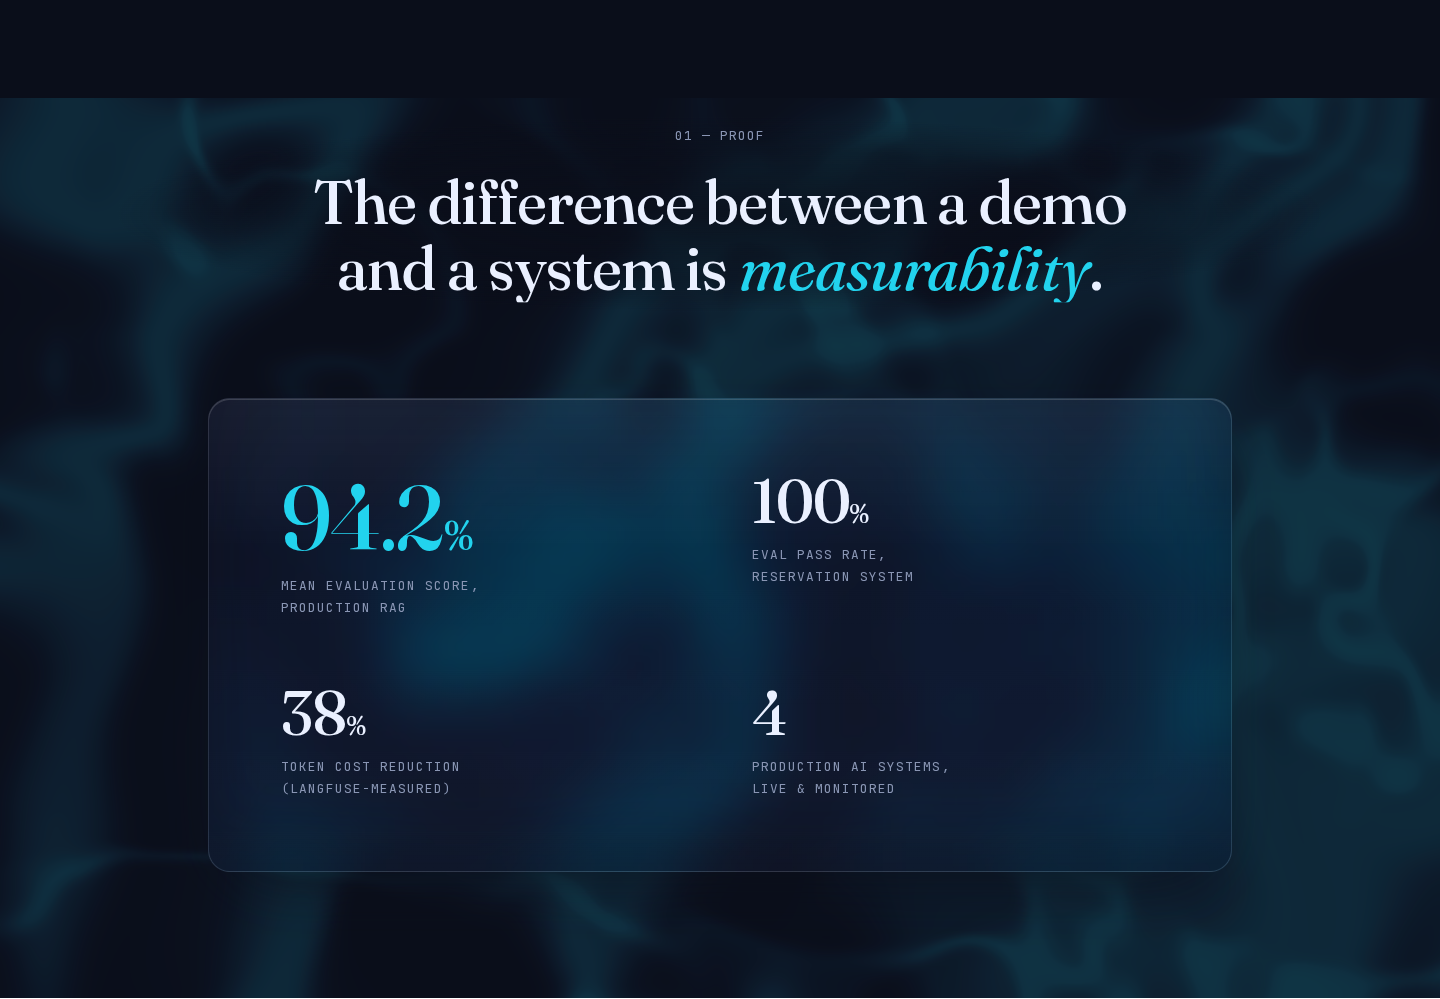
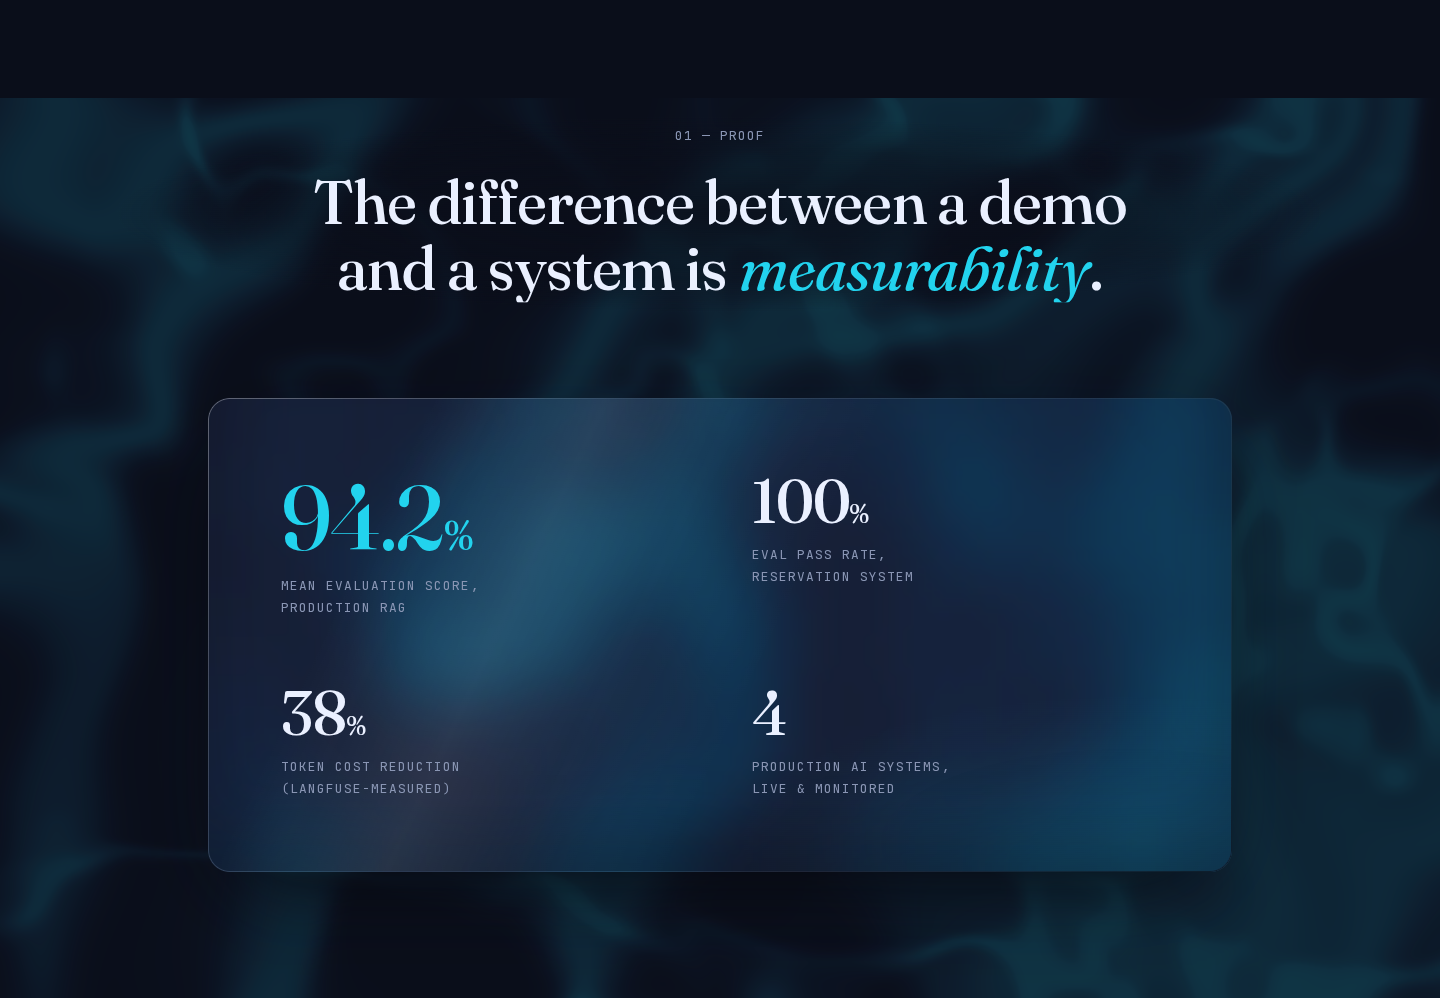
feat(portfolio-dark): Proof panel — full liquid-glass treatment
- Stronger frost: blur(30px) saturate(180%) brightness(1.1) over a
  lighter rgba(255,255,255,0.06) surface
- Light-catching rim: masked 1px gradient ring, bright top-left ->
  dark bottom-right (reads as glass thickness)
- Specular sheen: soft diagonal streak across the upper surface, plus
  a faint cyan bloom in the lower-right corner (brand pickup, subtle)
- Inner depth shadow + soft outer drop for float over the fluid
- .glass-liquid-content lifts figures above the overlay layers so
  text stays fully crisp

Ops note: the earlier "CSS edits not applying" was Turbopack's
persistent dev cache serving stale CSS even across restarts — fixed
by clearing .next/{dev,turbopack,cache} (moved aside, prod build
untouched, PM2 site verified healthy).

Verified: 1440 + 375 captures, 0 console errors, 0 overflow,
tsc + eslint clean.

Changed region(s): [[0.2188, 0.4655, 0.5, 0.8689], [0.7188, 0.7137, 0.875, 0.8999]]

diff --git a/src/app/globals.css b/src/app/globals.css
@@ -307,18 +307,52 @@
     0 4px 44px -4px rgba(34, 211, 238, 0.65);
 }
 
-/* Liquid glass — the refined panel treatment: deeper blur/saturation,
-   gradient surface, top highlight edge, inner depth shadow. For the few
-   large frosted panels; .glass stays the everyday recipe. */
+/* Liquid glass — the refined panel treatment for large frosted panels;
+   .glass stays the everyday recipe.
+   NOTE: keep every gradient on ONE line — the CSS pipeline silently drops
+   rules whose gradient args span multiple lines. */
 .portfolio-dark .glass-liquid {
-  background: linear-gradient(180deg, rgba(255, 255, 255, 0.07) 0%, rgba(255, 255, 255, 0.025) 32%, var(--surface) 100%);
-  -webkit-backdrop-filter: blur(24px) saturate(160%);
-  backdrop-filter: blur(24px) saturate(160%);
-  border: 1px solid var(--glass-border);
+  position: relative;
+  isolation: isolate;
+  background: rgba(255, 255, 255, 0.06);
+  -webkit-backdrop-filter: blur(30px) saturate(180%) brightness(1.1);
+  backdrop-filter: blur(30px) saturate(180%) brightness(1.1);
+  border: 1px solid rgba(255, 255, 255, 0.06);
   box-shadow:
-    inset 0 1px 0 rgba(255, 255, 255, 0.16),
-    inset 0 -32px 56px rgba(10, 14, 26, 0.38),
-    0 24px 64px -32px rgba(10, 14, 26, 0.9);
+    inset 0 -40px 64px rgba(10, 14, 26, 0.35),
+    0 32px 88px -32px rgba(4, 7, 14, 0.95);
+}
+
+/* light-catching rim: bright top/left → dark bottom/right, 1px, masked
+   so only the border ring shows */
+.portfolio-dark .glass-liquid::before {
+  content: "";
+  position: absolute;
+  inset: -1px;
+  border-radius: inherit;
+  padding: 1px;
+  background: linear-gradient(135deg, rgba(255, 255, 255, 0.28) 0%, rgba(255, 255, 255, 0.08) 30%, rgba(255, 255, 255, 0.02) 55%, rgba(4, 7, 14, 0.65) 100%);
+  -webkit-mask: linear-gradient(#fff 0 0) content-box, linear-gradient(#fff 0 0);
+  -webkit-mask-composite: xor;
+  mask: linear-gradient(#fff 0 0) content-box, linear-gradient(#fff 0 0);
+  mask-composite: exclude;
+  pointer-events: none;
+}
+
+/* specular sheen sliding across the upper surface + faint cyan bloom in
+   the lower-right corner; content sits above via .glass-liquid-content */
+.portfolio-dark .glass-liquid::after {
+  content: "";
+  position: absolute;
+  inset: 0;
+  border-radius: inherit;
+  background: linear-gradient(115deg, rgba(255, 255, 255, 0) 18%, rgba(255, 255, 255, 0.09) 32%, rgba(255, 255, 255, 0.025) 44%, rgba(255, 255, 255, 0) 55%), radial-gradient(55% 45% at 90% 94%, rgba(34, 211, 238, 0.09), transparent 70%);
+  pointer-events: none;
+}
+
+.portfolio-dark .glass-liquid-content {
+  position: relative;
+  z-index: 1; /* text/numbers above rim + sheen overlays, fully crisp */
 }
 
 /* The one glass recipe — nav, chips, cards, CTAs all share it */

diff --git a/src/components/portfolio-dark/DarkProof.tsx b/src/components/portfolio-dark/DarkProof.tsx
@@ -111,7 +111,7 @@ export default function DarkProof() {
           className="glass-liquid mx-auto mt-[var(--space-16)] max-w-[64rem] rounded-3xl lg:mt-[var(--space-24)]"
           style={{ padding: "clamp(2.5rem, 6vw, 4.5rem)" }}
         >
-          <div className="grid grid-cols-1 items-start gap-y-[var(--space-12)] md:grid-cols-2 md:gap-x-[var(--space-16)] md:gap-y-[var(--space-16)]">
+          <div className="glass-liquid-content grid grid-cols-1 items-start gap-y-[var(--space-12)] md:grid-cols-2 md:gap-x-[var(--space-16)] md:gap-y-[var(--space-16)]">
             {METRICS.map((m, i) => (
               <Reveal key={m.caption} delay={i * 0.08} onRevealStart={() => startCount(i)}>
                 <p
